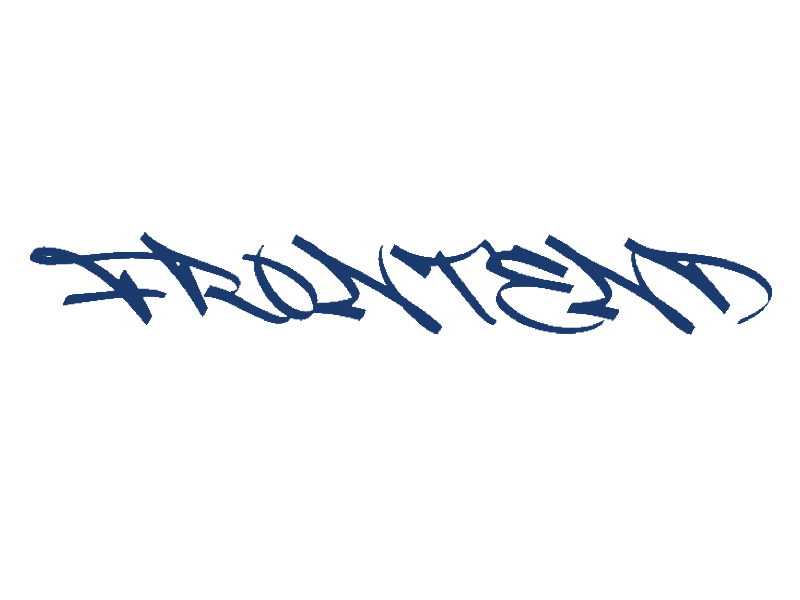
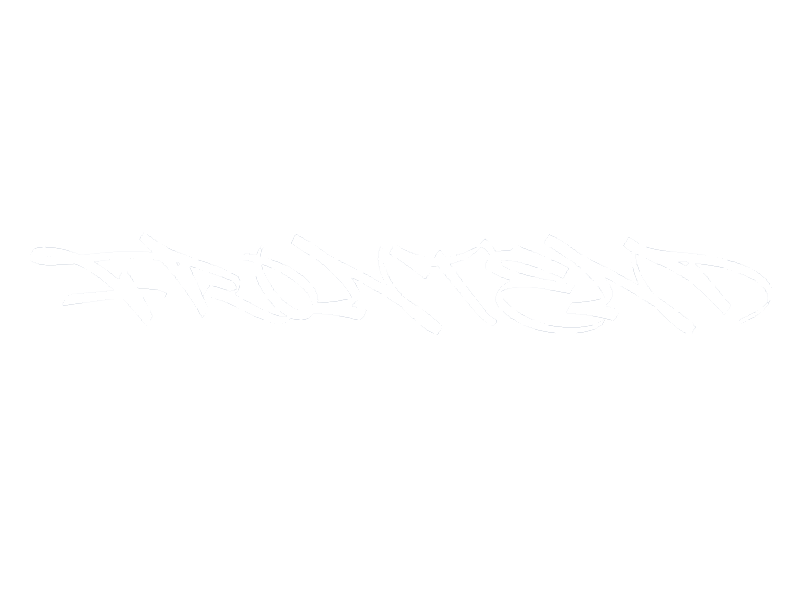
blue section transition

Changed region(s): [[0.0312, 0.39, 0.9688, 0.57]]

diff --git a/src/App.tsx b/src/App.tsx
@@ -51,32 +51,75 @@ function App() {
         end: () => "+=" + panelsContainer.current.offsetWidth,
       },
     });
+
+
+ function blue() {
+    const body:any = document.querySelector('body');
+    const menu:any = document.querySelector('.btnOpen');
+    const partname:any = document.querySelector('#Titre');
+    let observer = new IntersectionObserver((entries) => {
+        entries.forEach((entry) => {
+            if (entry.isIntersecting && entry.target.classList.contains('blueswitch')) {
+                console.log('blue');
+                body.classList.add('bluemode');
+                menu.classList.add('bluemodemenue');
+                partname.classList.add('bluemodename');
+                }
+                else if (entry.isIntersecting && entry.target.classList.contains('whiteswitch')) {
+                console.log('white')
+                body.classList.remove('bluemode');
+                menu.classList.remove('bluemodemenue');   
+                partname.classList.remove('bluemodename');
+                }
+            });
+
+        }, {
+            rootMargin: '-47% 0px -47% 0px'
+    });
+    
+    
+    let target = '.swictch';
+    document.querySelectorAll(target).forEach((i) => {
+
+    if (i) {
+        observer.observe(i);
+        }
+    })
+};
+ 
+blue();
+
   }, []);
+
+ 
 
   return (
     <div className="App">
+      
       <Hours />
-      <span className="btnOpen changeStyle " onClick={() => setIsOpen(true)}>
+      <span className="btnOpen" onClick={() => setIsOpen(true)}>
       <FontAwesomeIcon icon={ faBars } />
       </span>
       <Menu  isOpen={isOpen} onChange={setIsOpen}></Menu>
-      <Row name="top">
+      <Row name="top" className="swictch whiteswitch">
         <FirstPart/>
       </Row>
-      <Row name="skills">
+      <Row name="skills" className="swictch whiteswitch">
         <SecondPart/>
       </Row>
-      <Row name="project" className="start2">
+      <div className="borderWhite"></div>
+      <Row name="project" className="swictch blueswitch">
         <div ref={panelsContainer}>
           <div className="panel" ref={(e) => createPanelsRefs(e, 1)}>
               <ThirdPart/>
           </div>
         </div>
       </Row>
-      <Row name="about" className=" start3">
+      
+      <Row name="about" className="swictch whiteswitch">
         <FourthPart/>
       </Row>
-      <Row name="contacte">
+      <Row name="contacte swictch whiteswitch">
         <FifthPart />
       </Row>
       <div>

diff --git a/src/components/thirdPart/thirdPart.tsx b/src/components/thirdPart/thirdPart.tsx
@@ -12,47 +12,15 @@ import { faArrowRight, faCircle } from "@fortawesome/free-solid-svg-icons";
 function thirdPart() {
 
 
-  
-  useEffect(() => {
-
-    gsap.to(".changeStyle", {
-     color: "white",
-
-
-  
-      scrollTrigger: {
-        trigger: ".start2",
-        start: "top center",
-        end: "center",
-        scrub: true,
-        markers: false,
-      },
-    });
-    gsap.to(".changeStyle", {
-      color: "#1b3b6f",
-      immediateRender: false,
-
- 
-   
-       scrollTrigger: {
-         trigger: ".start3 ",
-         start: "bottom -85",
-         end: "bottom ",
-         scrub: true,
-         markers: false,
-       },
-     });
-    
-  }, []);
 
   const ref: any = useRef();
 
   return (
   <>
-    <div className="cache"></div>
+  <section>
     <div className="thirdPart " id="drag">
       <div className="card yrsa first">
-        <div className="img-box">
+        <div className="img-box ratio-4x3">
           <img src={Img1} className="card-img-top" alt="..." />
         </div>
         <div className="card-body">
@@ -64,7 +32,7 @@ function thirdPart() {
         </div>
       </div>
       <div className="card yrsa">
-        <div className="img-box">
+        <div className="img-box ratio-4x3">
           <img src={Img2} className="card-img-top" alt="..." />
         </div>
         <div className="card-body">
@@ -76,7 +44,7 @@ function thirdPart() {
         </div>
       </div>
       <div className="card yrsa">
-        <div className="img-box">
+        <div className="img-box ratio-4x3">
           <img src={Img3} className="card-img-top" alt="..." />
         </div>
         <div className="card-body">
@@ -88,7 +56,7 @@ function thirdPart() {
         </div>
       </div>
       <div className="card yrsa">
-        <div className="img-box">
+        <div className="img-box ratio-4x3">
           <img src={Img4} className="card-img-top" alt="..." />
         </div>
         <div className="card-body">
@@ -100,7 +68,7 @@ function thirdPart() {
         </div>
       </div>
       <div className="card yrsa">
-        <div className="img-box">
+        <div className="img-box ratio-4x3">
           <img src={Img2} className="card-img-top" alt="..." />
         </div>
         <div className="card-body">
@@ -112,6 +80,7 @@ function thirdPart() {
         </div>
       </div>
     </div>
+    </section>
     </>
   );
 }

diff --git a/src/img/Typescript.tsx b/src/img/Typescript.tsx
@@ -2,7 +2,7 @@ import React from "react";
 const Typescript = () => {
   return (
    
-      <svg xmlns="http://www.w3.org/2000/svg" width="150" height="150" viewBox="0 0 400 400" className="Typesvg">
+      <svg xmlns="http://www.w3.org/2000/svg" width="150" height="150" viewBox="0 0 400 400" className="Typesvg language">
           <path fill="#1b3b6f" d="M0 200V0h400v400H0" className="color007acc svgShape"/>
           <path fill="#fff" d="M87.7 200.7V217h52v148h36.9V217h52v-16c0-9 0-16.3-.4-16.5 0-.3-31.7-.4-70.2-.4l-70 .3v16.4l-.3-.1zM321.4 184c10.2 2.4 18 7 25 14.3 3.7 4 9.2 11 9.6 12.8 0 .6-17.3 12.3-27.8 18.8-.4.3-2-1.4-3.6-4-5.2-7.4-10.5-10.6-18.8-11.2-12-.8-20 5.5-20 16 0 3.2.6 5 1.8 7.6 2.7 5.5 7.7 8.8 23.2 15.6 28.6 12.3 41 20.4 48.5 32 8.5 13 10.4 33.4 4.7 48.7-6.4 16.7-22 28-44.3 31.7-7 1.2-23 1-30.5-.3-16-3-31.3-11-40.7-21.3-3.7-4-10.8-14.7-10.4-15.4l3.8-2.4 15-8.7 11.3-6.6 2.6 3.5c3.3 5.2 10.7 12.2 15 14.6 13 6.7 30.4 5.8 39-2 3.7-3.4 5.3-7 5.3-12 0-4.6-.7-6.7-3-10.2-3.2-4.4-9.6-8-27.6-16-20.7-8.8-29.5-14.4-37.7-23-4.7-5.2-9-13.3-11-20-1.5-5.8-2-20-.6-25.7 4.3-20 19.4-34 41-38 7-1.4 23.5-.8 30.4 1l-.2.2z" className="colorfff svgShape"/>
       </svg>

diff --git a/src/App.css b/src/App.css
@@ -12,13 +12,34 @@ html {
   background-repeat: no-repeat;
   background-position: 50% 90%;
 }
-.pin-spacer > div {
-  border: 10px solid #1b3b6f;
-  max-height: 100vh !important;
-}
+
 
 .footer {
   color: #1b3b6f;
   font-family: "Times New Roman", Times, serif;
   font-size: 1.5rem;
+}
+
+.borderWhite {
+    width: 100vw;
+    height: 100vh;
+    position: fixed;
+    border-left: 56px solid white;
+    border-right: 56px solid white;
+    z-index: 10;
+}
+.bluemode{
+  background-color: #1b3b6f!important;
+  color: white!important;
+}
+.bluemodemenue{
+  color: white!important;
+}
+.bluemodename{
+  -webkit-text-stroke: 0px !important;
+  color: white!important;
+}
+body{
+  transition: background-color 0.5s ease;
+  color: #1b3b6f!important;
 }

diff --git a/src/components/fourthPart/fourthPart.tsx b/src/components/fourthPart/fourthPart.tsx
@@ -38,12 +38,13 @@ function fourthPart() {
   }, [inView]);
 
   return (
-    <div className="fourthPart">
+    <section className="fourthPart ">
       <Container className="py-5">
         <Row className="buble3" ref={ref}>
           <motion.h2
             animate={animation1}
             className="partName  fw-light fst-italic pt-2 position-relative text-end"
+            id="Titre"
           >
             about
           </motion.h2>
@@ -79,7 +80,7 @@ function fourthPart() {
           </div>
         </Col>
       </Row>
-    </div>
+    </section>
   );
 }
 

diff --git a/src/components/secondPart/secondPart.tsx b/src/components/secondPart/secondPart.tsx
@@ -46,7 +46,7 @@ function secondPart() {
   }, [inView]);
 
   return (
-    <div className="secondPart skillsTitle pb-5" >
+    <section className="secondPart skillsTitle pb-5 " >
       <Container>
         <Row className="pb-5" >
           <Col lg={9} sm={9} xs={9}>
@@ -75,7 +75,7 @@ function secondPart() {
       </Container>
       <div ref={ref}></div>
      <Grab  />
-    </div>
+    </section>
   );
 }
 

diff --git a/src/components/fifthPart/fifthPart.tsx b/src/components/fifthPart/fifthPart.tsx
@@ -30,7 +30,7 @@ function FifthPart() {
  
 
   return (
-    <div className="FifthPart start1">
+    <section className="FifthPart start1">
       <Container className="contact">
         <Row className="pb-5">
           <Col lg={12} sm={12} xs={12}>
@@ -44,7 +44,7 @@ function FifthPart() {
           </Col>
         </Row>
       </Container>
-    </div>
+    </section>
   );
 }
 

diff --git a/src/components/firstPart/firstPart.tsx b/src/components/firstPart/firstPart.tsx
@@ -68,7 +68,7 @@ function FirstPart() {
   }, [inView]);
 
   return (
-    <div className="firstPart">
+    <section className="firstPart">
       <Container>
         <Row ref={ref} className="firstRow">
           <Col>
@@ -94,7 +94,7 @@ function FirstPart() {
           </Col>
         </Row>
       </Container>
-    </div>
+    </section>
   );
 }
 

diff --git a/src/css/secondPart.css b/src/css/secondPart.css
@@ -1,8 +1,6 @@
 .secondPart {
-  background-color: white;
   overflow: hidden;
   min-height: 100vh;
-  color: #1B3B6F;
 }
 .test {
   border: solid 1px black;
@@ -136,7 +134,6 @@
   fill: #0272b7!important;
 
 }
-
 
 .scss:active{
   cursor: grabbing;

diff --git a/src/css/fourthPart.css b/src/css/fourthPart.css
@@ -1,10 +1,8 @@
 .fourthPart {
-  background-color: white;
   overflow: hidden;
   min-height: 70vh;
   z-index: 1;
   position: relative;
-  color: #1b3b6f;
 }
 .monsteraIMG {
   width: 400px;

diff --git a/src/css/thirdPart.css b/src/css/thirdPart.css
@@ -1,7 +1,7 @@
 .thirdPart {
   height: 100vh;
   width: 230vw;
-  background: #1b3b6f;
+
   z-index: 1;
   position: relative;
   display: inline-flex;

diff --git a/src/css/firstPart.css b/src/css/firstPart.css
@@ -220,6 +220,7 @@ h2 {
 
 
 
+
 @keyframes animate {
   0% {
       opacity: 0;
